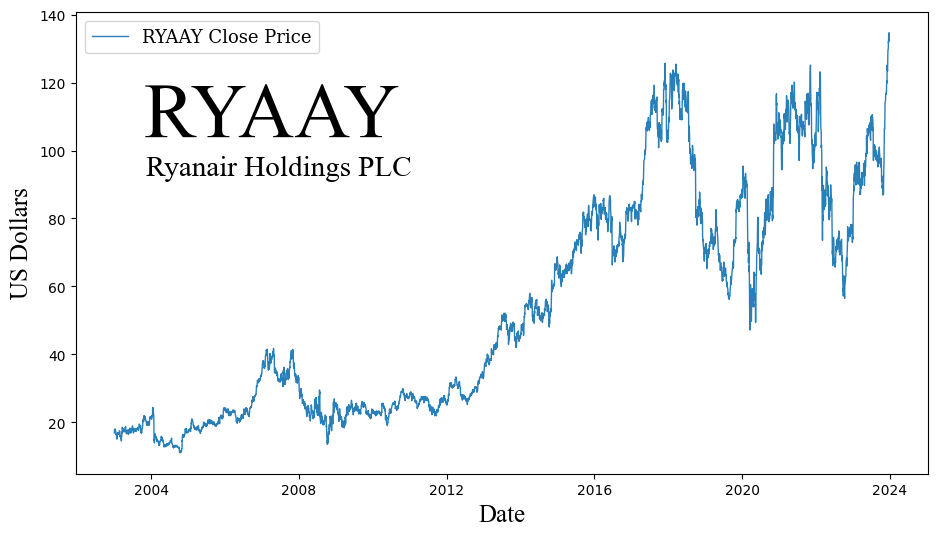
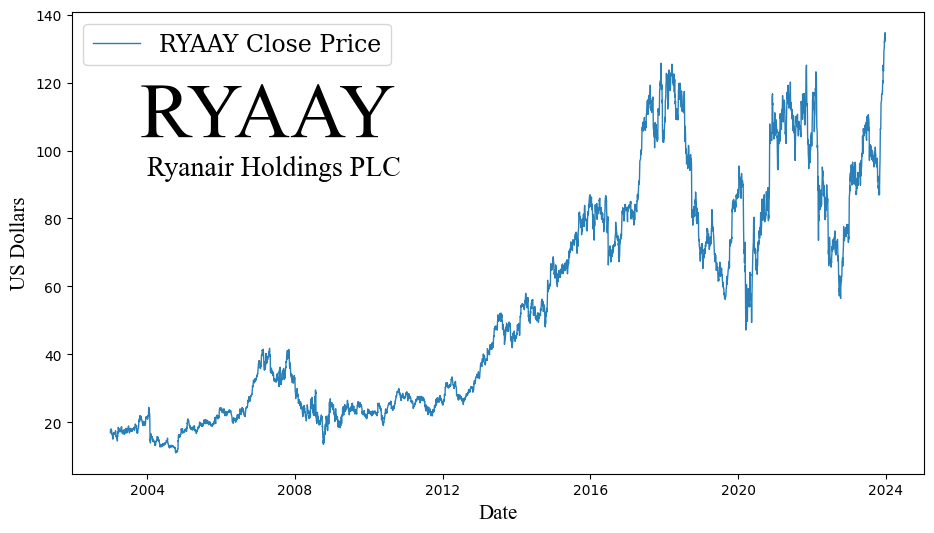
changed the close plot a bit

diff --git a/Plot_Trading_days_data.py b/Plot_Trading_days_data.py
@@ -96,11 +96,12 @@ plt.tick_params(axis='both', which='major', labelsize=10)
 plt.figure(figsize=(11, 6))
 plt.plot(datetime_objs, trading_days_data['Close'], label='RYAAY Close Price', color='#2980b9', linewidth=1)
 title = "RYAAY"
-plt.text(datetime_objs[300], plt.ylim()[1] * 0.88, title, fontsize=56, ha='left', va='top', fontname='Times New Roman')
-plt.title('RYAAY Close Price Over Time', fontsize=16, fontfamily='serif')
+plt.text(datetime_objs[200], plt.ylim()[1] * 0.85, title, fontsize=56, ha='left', va='top', fontname='Times New Roman')
+plt.text(datetime_objs[250], plt.ylim()[1] * 0.70, 'Ryanair Holdings PLC', fontsize=20, ha='left', va='top', fontname='Times New Roman')
+#plt.title('RYAAY Close Price Over Time', fontsize=16, fontfamily='serif')
 plt.gca().xaxis.set_major_formatter(mdates.DateFormatter('%Y'))
-plt.legend(loc='upper right', prop={'family': 'serif', 'size': 11})
+plt.legend(loc='upper left', prop={'family': 'serif', 'size': 17})
 plt.xlabel('Date', fontsize=15, fontname='Times New Roman')
-plt.ylabel('Close Price (US Dollars)', fontsize=15, fontname='Times New Roman')
-plt.savefig('Plots/Close_Over_Time.png', bbox_inches='tight')
+plt.ylabel('US Dollars', fontsize=15, fontname='Times New Roman')
+plt.savefig('Plots/Close_Over_Time_with_title.png', bbox_inches='tight')
 #plt.show()
